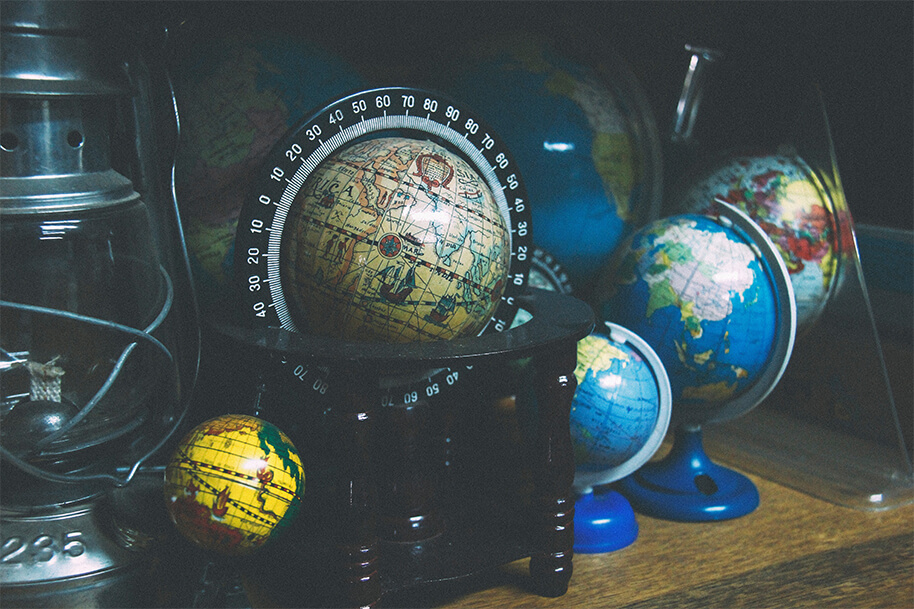
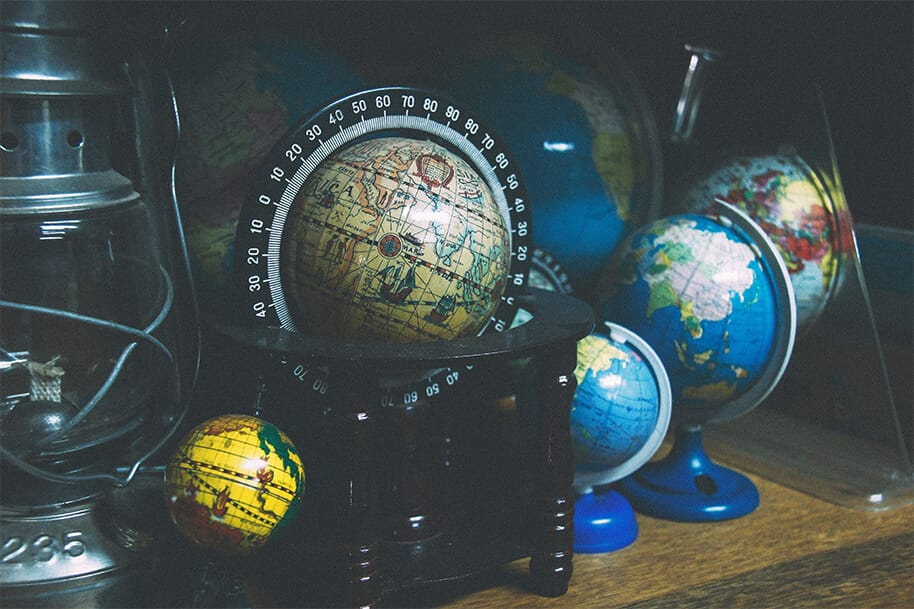
perf: тяжёлые картинки и ленивая карта — LCP главной с 13.7s
- slide.jpg 8688x5792/1.9MB -> 1920x1280/184KB (q80 mozjpeg), fetchpriority=high
- program.jpg 274KB -> 78KB, icons.png 400KB -> 1KB (palette, спрайт не менялся)
- MapSection: iframe Google Maps монтируется только после первого клика --
  раньше ~600KB скриптов карт грузились на каждом визите главной
  (заодно источник third-party cookies в Lighthouse best-practices)
- карта на /contacts: loading=lazy

diff --git a/src/components/home/MapSection.tsx b/src/components/home/MapSection.tsx
@@ -5,19 +5,30 @@ import { useState } from 'react';
 
 export default function MapSection() {
   const [showMap, setShowMap] = useState(false);
+  // iframe Google Maps тянет ~600КБ скриптов — не монтируем его, пока блок ни разу
+  // не открыли, иначе карта грузится на каждом визите главной при свёрнутом блоке
+  const [mounted, setMounted] = useState(false);
 
   return (
     <section className="map">
-      <button className="button-map" onClick={() => setShowMap(!showMap)}>
+      <button
+        className="button-map"
+        onClick={() => {
+          setShowMap(!showMap);
+          setMounted(true);
+        }}
+      >
         НАШ ОФИС В ЦЕНТРЕ БРНО <img src="/angle-down-light.svg" alt="Down" />
       </button>
       <div className={`map-wrap ${showMap ? 'show-map' : ''}`}>
-        <iframe
-          title="Mapa"
-          src="https://www.google.com/maps/d/u/0/embed?mid=1yY8eiTQPebST_CY0i1KFJ4Vq_YXEq4Vg"
-          width="100%"
-          height="100%"
-        />
+        {mounted && (
+          <iframe
+            title="Mapa"
+            src="https://www.google.com/maps/d/u/0/embed?mid=1yY8eiTQPebST_CY0i1KFJ4Vq_YXEq4Vg"
+            width="100%"
+            height="100%"
+          />
+        )}
       </div>
     </section>
   );

diff --git a/src/app/[locale]/page.tsx b/src/app/[locale]/page.tsx
@@ -49,7 +49,7 @@ export default async function HomePage({ params }: { params: Promise<{ locale: s
   return (
     <div id="homepage">
       <section className="section-slide uk-cover-container uk-width-1-1">
-        <img uk-cover="true" className="uk-width-1-1 uk-cover" src="/slide.jpg" alt={data.title} />
+        <img uk-cover="true" className="uk-width-1-1 uk-cover" src="/slide.jpg" alt={data.title} fetchPriority="high" />
         <div className="uk-container">
           <div className="uk-grid uk-child-width-1-1" uk-grid="">
             <div>

diff --git a/src/app/[locale]/contacts/page.tsx b/src/app/[locale]/contacts/page.tsx
@@ -40,6 +40,7 @@ export default async function ContactsPageRoute({ params }: { params: Promise<{ 
                           src="https://www.google.com/maps/d/u/0/embed?mid=1Vb1NeI0TQaSpeRKgHRlSPPnB3ly1i5Zq"
                           width="100%"
                           height="100%"
+                          loading="lazy"
                         />
                       </div>
                     </div>
